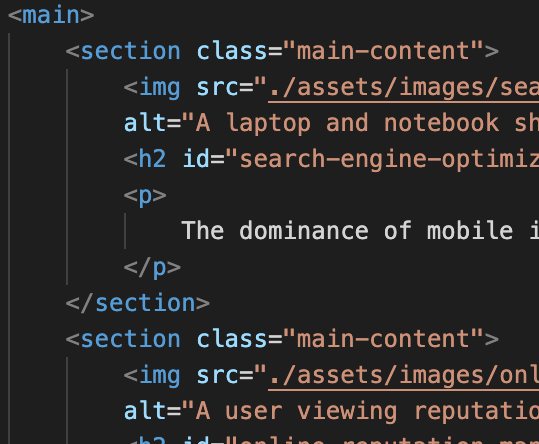
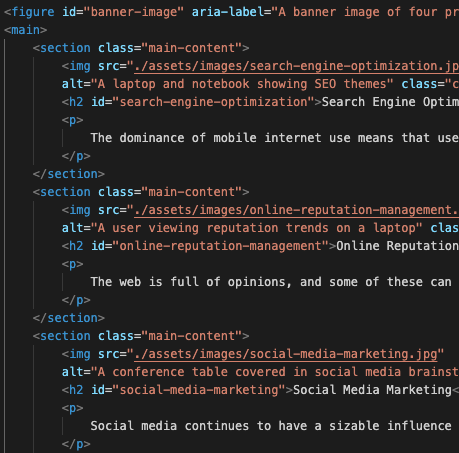
Added media queries to adapt the layout for tablets and phones. Added functional links and replaced placeholder content with real content.

Changed region(s): [[0.0, 0.0, 1.0, 1.0], [0.7625, 0.0, 1.0, 0.0586]]

diff --git a/index.html b/index.html
@@ -2,6 +2,7 @@
 <html>
 <head>
     <meta charset="utf-8" />
+    <meta name="viewport" content="width=device-width, initial-scale=1" />
     <title>Kelly Vaden</title>
     <link href="assets/css/reset.css" rel="stylesheet" />
     <link href="assets/css/style.css" rel="stylesheet" />
@@ -11,78 +12,98 @@
         <div id="banner-image">
             <h1>KELLY VADEN</h1>
             <h2>Full Stack Web Developer</h2>
-            <img id="profile" src="assets/images/profile-removebg-preview.png" /> 
+            <img id="profile" src="assets/images/profile-removebg-preview.png" 
+            alt="A headshot of Kelly, who is a brunette woman in her early 30s. She is smiling and focused on something off-camera." /> 
         </div>
     </header>
     <nav>
         <ul>
-            <li><a href="#">About</a></li>
-            <li><a href="#">Portfolio</a></li>
-            <li><a href="#">Contact</a></li>
+            <li><a href="#about">About</a></li>
+            <li><a href="#portfolio">Portfolio</a></li>
+            <li><a href="#contact">Contact</a></li>
         </ul>
     </nav>
     <main>
-        <section>
+        <section id="about">
             <h3>About Me</h3>
-            <p>Lorem ipsum dolor sit amet, consectetur adipiscing elit. Nunc vitae aliquet massa. Quisque porta leo est, vel sagittis odio eleifend vitae. 
+            <p>Hello! I'm Kelly, a software developer based in Pittsburgh, PA. 
             </p>
-            <p>Aliquam ut lectus sit amet elit gravida tincidunt. Nullam vitae neque consequat, semper neque ut, iaculis purus. In sit amet leo in nulla 
-                mollis sagittis. Vivamus mi est, dapibus molestie magna in, egestas venenatis ipsum. Maecenas elementum est non orci suscipit consequat. 
-                Morbi blandit ac lacus et fermentum. Donec dignissim dictum felis ut tristique. Curabitur fermentum faucibus ipsum, tempor lobortis ex semper sed. 
+            <p>I began my career as a mechanical engineer. As I worked on problems in the energy industry, I realized how much we depended on robust, user-friendly 
+                software and I became interested in designing those systems myself. I have experience with Python and SQL through my engineering roles, and I'm excited
+                to learning more of the web development stack through Rutgers University's Full Stack program. 
             </p>
-            <p>Nullam mattis, sapien id tempus rutrum, risus enim consectetur erat, nec aliquet metus felis cursus lacus. Aliquam erat volutpat. Vestibulum 
-                commodo sem id enim euismod hendrerit id quis sem. Vivamus eget sem ipsum.
+            <p>When I'm not coding, I can usually be found playing my bass guitar, running, or hanging out with my pets.
             </p>
         </section>
-        <section class="clearfix">
+        <section class="clearfix" id="portfolio">
             <h3>Portfolio</h3>
-            <article>
-                <h4>Horiseon Accessibility Refactor</h4>
-                <img src="assets/images/horiseon-semantic.png" /> 
-                <p>Lorem ipsum dolor sit amet, consectetur adipiscing elit. Aenean ac turpis vitae mi cursus efficitur. Ut tincidunt tincidunt 
-                    tempor. Vivamus lacinia mi quis est facilisis faucibus. Interdum et malesuada fames ac ante ipsum primis in faucibus. Nam purus libero, 
-                    interdum id varius sed, euismod et diam. Ut quam lorem, sagittis non velit in, suscipit ullamcorper ex. Aliquam erat volutpat.
-                </p>
-            </article>
-            <article>
-                <h4>Placeholder #1</h4>
-                <img src="assets/images/bruce-1.jpg" />  
-                <p>Lorem ipsum dolor sit amet, consectetur adipiscing elit. Aenean ac turpis vitae mi cursus efficitur. Ut tincidunt tincidunt 
-                    tempor. Vivamus lacinia mi quis est facilisis faucibus. Interdum et malesuada fames ac ante ipsum primis in faucibus. Nam purus libero, 
-                    interdum id varius sed, euismod et diam. Ut quam lorem, sagittis non velit in, suscipit ullamcorper ex. Aliquam erat volutpat.
-                </p>
-            </article>
-            <article>
-                <h4>Placeholder #2</h4>
-                <img src="assets/images/bruce-2.jpg" />  
-                <p>Lorem ipsum dolor sit amet, consectetur adipiscing elit. Aenean ac turpis vitae mi cursus efficitur. Ut tincidunt tincidunt 
-                    tempor. Vivamus lacinia mi quis est facilisis faucibus. Interdum et malesuada fames ac ante ipsum primis in faucibus. Nam purus libero, 
-                    interdum id varius sed, euismod et diam. Ut quam lorem, sagittis non velit in, suscipit ullamcorper ex. Aliquam erat volutpat.
-                </p>
-            </article>
-            <article>
-                <h4>Placeholder #3</h4>
-                <img src="assets/images/bruce-3.jpg" />  
-                <p>Lorem ipsum dolor sit amet, consectetur adipiscing elit. Aenean ac turpis vitae mi cursus efficitur. Ut tincidunt tincidunt 
-                    tempor. Vivamus lacinia mi quis est facilisis faucibus. Interdum et malesuada fames ac ante ipsum primis in faucibus. Nam purus libero, 
-                    interdum id varius sed, euismod et diam. Ut quam lorem, sagittis non velit in, suscipit ullamcorper ex. Aliquam erat volutpat.
-                </p>
-            </article>
-            <article>
-                <h4>Placeholder #4</h4>
-                <img src="assets/images/bruce-4.jpg" />  
-                <p>Lorem ipsum dolor sit amet, consectetur adipiscing elit. Aenean ac turpis vitae mi cursus efficitur. Ut tincidunt tincidunt 
-                    tempor. Vivamus lacinia mi quis est facilisis faucibus. Interdum et malesuada fames ac ante ipsum primis in faucibus. Nam purus libero, 
-                    interdum id varius sed, euismod et diam. Ut quam lorem, sagittis non velit in, suscipit ullamcorper ex. Aliquam erat volutpat.
-                </p>
-            </article>
+            <div class="flex-container">
+                <article id="highlight">
+                    <h4>Horiseon Accessibility Refactor</h4>
+                    <a href="https://kvaden19.github.io/rutgers-hw-1-code-refactor/" target="_blank">
+                        <img src="assets/images/horiseon-semantic.png" alt="A snippet of code showing semantic HTML and images with alt attributes"/> 
+                    </a>
+                    <p>In this project I overhauled an existing website's HTML and CSS to improve accessibility. This work included replacing non-semantic HTML elements
+                        with semantic elements, refactoring elements to follow a logical structure, and adding "alt" attributes to all images. This refactor will deliver 
+                        a much better user experience for anyone accessing the site with a screen reader. It should also improve the site's search engine results, which 
+                        is crucial since the company is a digital marketing firm offering SEO. 
+                    </p>
+                </article>
+                <article>
+                    <h4>Placeholder #1</h4>
+                    <a href="https://github.com/kvaden19/happy-pitbull" target="_blank">
+                        <img src="assets/images/bruce-1.jpg" alt="A placeholder image of Bruce the dog" /> 
+                    </a> 
+                    <p>I'm in the early stages of my programming journey and am still working on some additional portfolio pieces. Please check back soon! In the meantime,
+                        please enjoy a photo of my beloved pit mix, Bruce.
+                    </p>
+                </article>
+                <article>
+                    <h4>Placeholder #2</h4>
+                    <a href="https://github.com/kvaden19/happy-pitbull" target="_blank">
+                        <img src="assets/images/bruce-2.jpg" alt="A placeholder image of Bruce the dog" /> 
+                    </a> 
+                    <p>I'm in the early stages of my programming journey and am still working on some additional portfolio pieces. Please check back soon! In the meantime,
+                        please enjoy a photo of my beloved pit mix, Bruce.
+                    </p>
+                </article>
+                <article>
+                    <h4>Placeholder #3</h4>
+                    <a href="https://github.com/kvaden19/happy-pitbull" target="_blank">
+                        <img src="assets/images/bruce-3.jpg" alt="A placeholder image of Bruce the dog" /> 
+                    </a>  
+                    <p>I'm in the early stages of my programming journey and am still working on some additional portfolio pieces. Please check back soon! In the meantime,
+                        please enjoy a photo of my beloved pit mix, Bruce.
+                    </p>
+                </article>
+                <article>
+                    <h4>Placeholder #4</h4>
+                    <a href="https://github.com/kvaden19/happy-pitbull" target="_blank">
+                        <img src="assets/images/bruce-4.jpg" alt="A placeholder image of Bruce the dog" /> 
+                    </a> 
+                    <p>I'm in the early stages of my programming journey and am still working on some additional portfolio pieces. Please check back soon! In the meantime,
+                        please enjoy a photo of my beloved pit mix, Bruce.
+                    </p>
+                </article>
+            </div>
         </section>
         <section id = "contact">
             <h3> Contact </h3>
             <ul>
-                <li><img src="assets/images/gmail-logo.png" /> </li>
-                <li><img src="assets/images/GitHub-Mark-Light-64px.png" /> </li>
-                <li><img src="assets/images/linkedin-logo.png" /> </li>
+                <li>
+                    <a href="mailto:klvaden@gmail.com">
+                        <img src="assets/images/gmail-logo.png" alt="Gmail icon"/> </li>
+                    </a>
+                <li>
+                    <a href="https://github.com/kvaden19" target="_blank">
+                        <img src="assets/images/GitHub-Mark-Light-64px.png" alt="GitHub icon" /> 
+                    </a>
+                </li>
+                <li>
+                    <a href="https://www.linkedin.com/in/klvaden/" target="_blank">
+                        <img src="assets/images/linkedin-logo.png" alt="LinkedIn icon"/> 
+                    </a>
+                </li>
             </ul>
         </section>
     </main>

diff --git a/assets/css/style.css b/assets/css/style.css
@@ -8,7 +8,6 @@
 * {
     box-sizing: border-box;
     background-color: var(--primary);
-    font-size: 16px;
     font-family: "Segoe UI", "Frutiger", "Dejavu Sans", "Helvetica Neue", Arial, sans-serif;
     color: var(--fontcolor);
 }
@@ -30,7 +29,7 @@ h1 {
     display: inline;
     margin: 0 0 0 2.5%;
     background-color: var(--primary);
-    font-size: 4em;
+    font-size: 64px;
 }
 
 h2 {
@@ -40,7 +39,7 @@ h2 {
     display: inline;
     margin: 1.5% 0 0 2.5%;
     background-color: var(--primary);
-    font-size: 2em;
+    font-size: 32px;
 }
 
 #profile {
@@ -59,10 +58,16 @@ nav {
     height: 50px;
 }
 
+nav ul {
+    display: flex;
+    flex-direction: row;
+    align-items: flex-end;
+    height: 50px;
+}
+
 nav li {
     position: relative;
-    float: left;
-    width: 5%;
+    width: 120px;
     height: 50px;
     margin-left: 5%;
 }
@@ -72,10 +77,9 @@ nav a {
     bottom: 0;
     border: 1.5px solid var(--accent1);
     border-radius: 15px;
-    width: 115px;
-    padding: 8px;
-    margin: 5px;
-    font-size: 1.3em;
+    width: 120px;
+    padding: 8px 8px 9px 8px;
+    font-size: 20px;
     font-weight: bold;
     text-align: center;
     text-decoration: none;
@@ -89,15 +93,16 @@ main {
 p {
     line-height: 1.2;
     margin: 8px 0px;
+    font-size: 16px;
 }
 
 h3 {
-    font-size: 1.5em;
+    font-size: 24px;
     padding: 5px 0px;
 }
 
 h4 {
-    font-size: 1.25em;
+    font-size: 18px;
     padding: 5px 0px;
 }
 
@@ -113,19 +118,37 @@ section {
 
 article {
     float: left;
-    justify-content: center;
     width: 50%;
     padding: 15px 10px 15px 0;
 }
 
 article img {
+    opacity: 0.6;
     padding: 5px 0px;
     height: 200px;
     width: 200px;
 }
 
+article img:hover {
+    opacity: 1.0;
+}
+
 article p {
     padding-right: 100px;
+}
+
+#highlight {
+    width: 100%;
+}
+
+#highlight img {
+    height: 400px;
+    width: 400px;
+}
+
+.flex-container {
+    display: flex;
+    flex-wrap: wrap;
 }
 
 #contact li {
@@ -143,5 +166,76 @@ footer {
     position: relative;
     bottom: 10px;
     text-align: center;
-    font-size: 0.8em;
+    font-size: 12px;
+}
+
+/* For tablet sized screens and smaller, collapse the portfolio pieces into one column */
+@media screen and (max-width: 800px) {
+    article {
+        width: 100%;
+    }
+  }
+
+/* For phones, streamline the header and collapse the nav links into one column */
+@media screen and (max-width: 500px) {
+    #banner-image {
+        background-image: none;
+    }
+
+    h1 {
+        position: static;
+        display: block;
+        font-size: 45px;
+    }
+
+    h2 {
+        position: static;
+        display: block;
+        font-size: 25px;
+        margin-bottom: 15px;
+    }
+
+    #profile {
+        position: static;
+        display: block;
+        margin-left: auto;
+        margin-right: auto;
+        width: 250px;
+        height: 310px;
+        border-style: solid;
+        border-color: var(--primary) #3c40c6  #3c40c6 var(--primary);
+        border-width: 5px;
+    }
+
+    nav {
+        height: 150px;
+    }
+    
+    nav ul {
+        flex-direction: column;
+        align-items: flex-start;
+        height: 150px;
+    }
+
+    nav li {
+        height: 50px;
+    }
+
+    #highlight img {
+        height: 300px;
+        width: 300px;
+    }
+
+    article p {
+        padding-right: 15px;
+    }
+
+    #contact {
+        height: 50px;
+    }
+    
+    #contact li {
+        width: 25%;
+        margin-bottom: 10px;
+    }
 }
